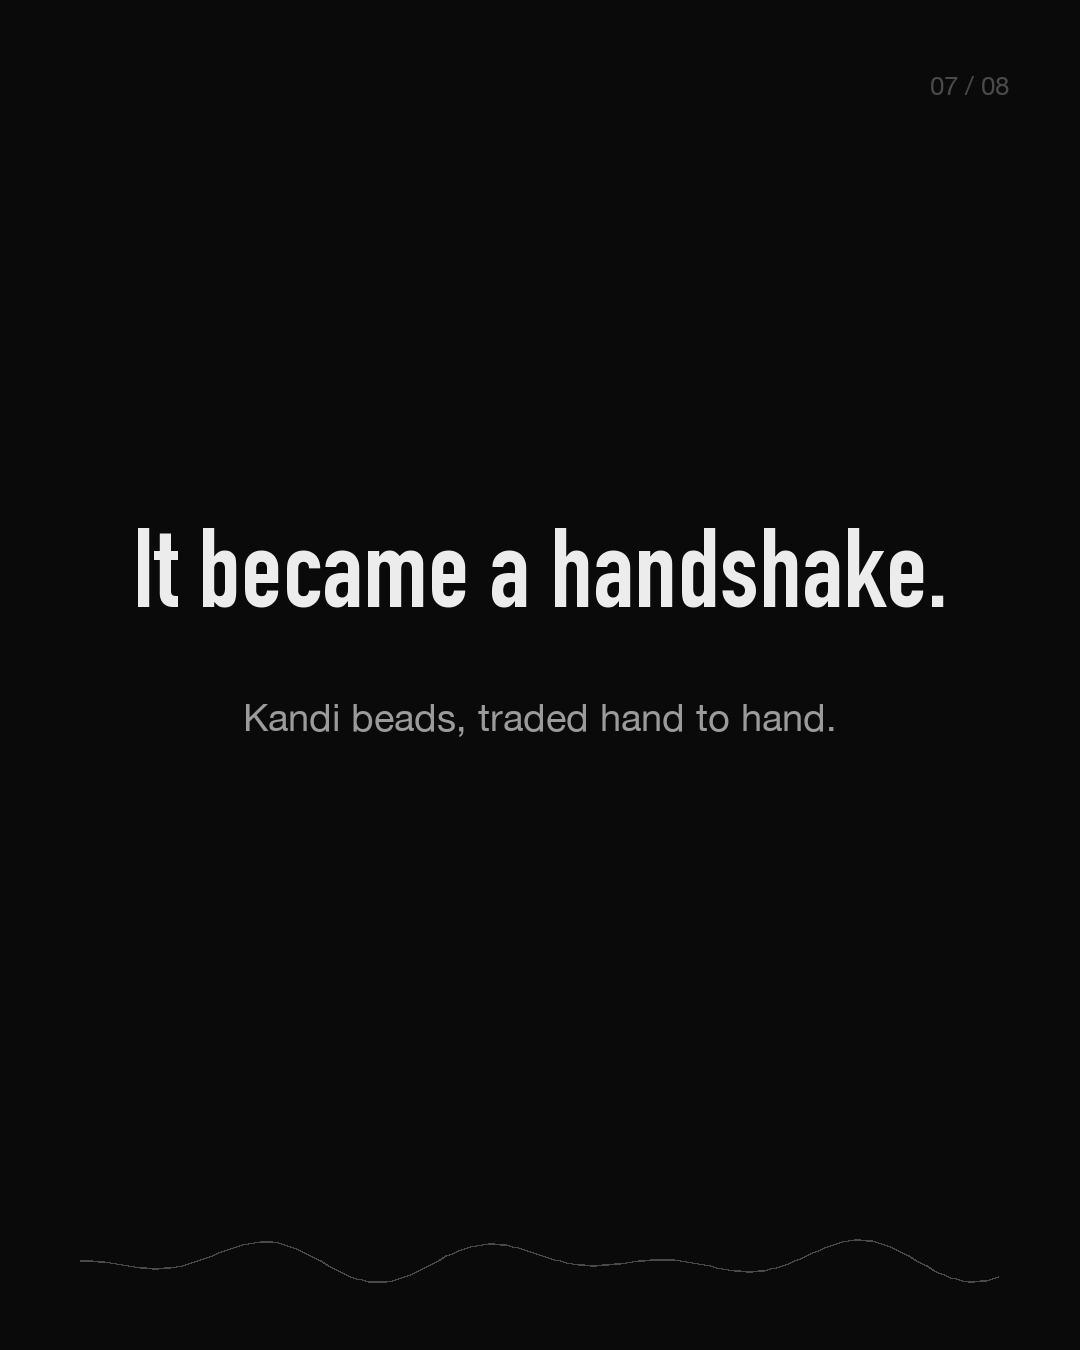
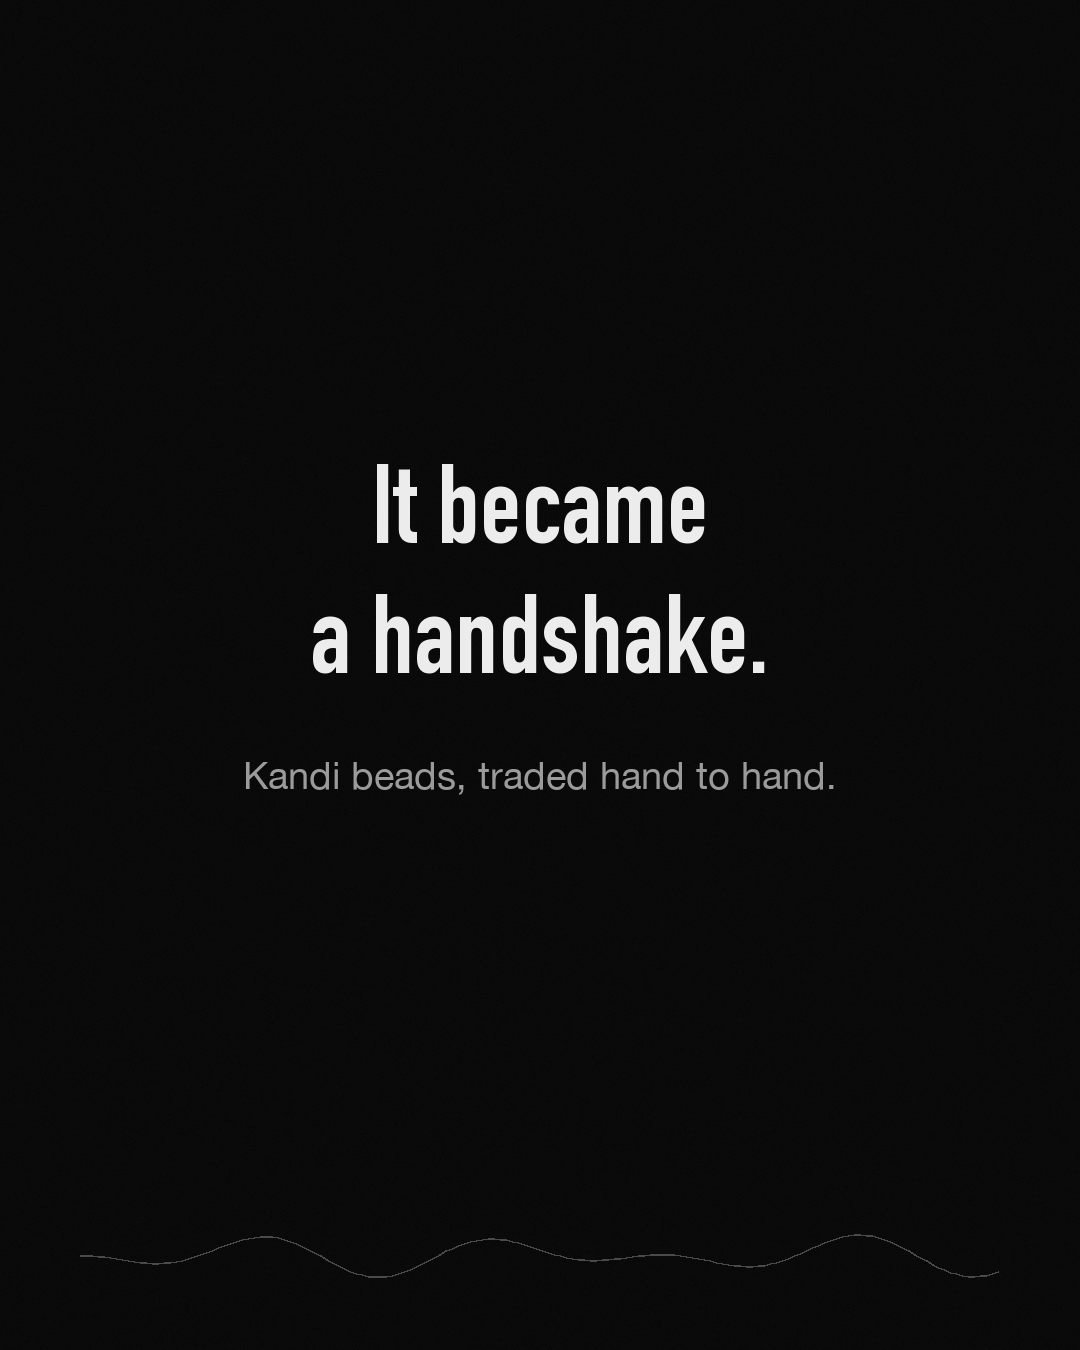
render: ページ番号削除・意味改行(配列)対応・表紙別背景(cover-bg)・地グレイン追加

Changed region(s): [[0.1222, 0.3422, 0.8861, 0.4978], [0.2139, 0.5289, 0.7639, 0.5911]]

diff --git a/tools/carousel-render/render.py b/tools/carousel-render/render.py
@@ -4,24 +4,27 @@ Carousel renderer — slides.json + 背景 → スライドPNG
 テキストを組版してブランド準拠のカルーセル画像を吐く。AI画像生成は不要。
 
 Usage:
-  python render.py slides.json --out ./out [--bg /path/to/background.jpg]
+  python render.py slides.json --out ./out [--cover-bg cover.jpg]
 
 slides.json schema:
 {
   "account": "plur" | "flava",
-  "background": {"color":"#0A0A0A"} | {"image":"bg.jpg"},
+  "background": {"color":"#0A0A0A"},
   "slides": [
     {"type":"cover", "main":"PLUR", "sub":"..."},
-    {"type":"body",  "text":"...", "sub":"..."},
-    {"type":"quote", "quote":"...", "note":"..."},
+    {"type":"body",  "text":["line1","line2"], "sub":"..."},
+    {"type":"quote", "quote":["line1","line2"], "note":"..."},
     {"type":"cta",   "text":"...", "strobe":"...", "cta":"Save this."}
   ]
 }
-背景は --bg で全スライド一括指定、または各slideに "bg":"path" で個別指定可。
+
+改行ルール：text/quote等は **配列で1行ずつ** 指定する（意味・カンマ・ハイフンで割る）。
+文字列に "\\n" を入れてもよい。1行だけ長すぎる場合のみ自動折返しでフォールバック。
+表紙(cover)の背景：--cover-bg で渡した画像を slide 1 だけに敷く（2枚目以降はテーマ地）。
 """
-import json, sys, argparse, math
+import json, sys, argparse, math, random
 from pathlib import Path
-from PIL import Image, ImageDraw, ImageFont, ImageEnhance
+from PIL import Image, ImageDraw, ImageFont, ImageEnhance, ImageChops
 
 W, H = 1080, 1350  # Instagram 4:5
 
@@ -31,14 +34,14 @@ THEMES = {
         "sub": "#9B9B9B", "rule": "#4A4A4A",
         "font_head": "/System/Library/Fonts/Supplemental/DIN Condensed Bold.ttf",
         "font_body": "/System/Library/Fonts/HelveticaNeue.ttc",
-        "motif": True,
+        "motif": True, "grain": 14,
     },
     "flava": {
         "bg": "#F4EFE6", "main": "#33403A", "strobe": "#869177",
         "sub": "#A99BC0", "rule": "#C9A86A",
         "font_head": "/System/Library/Fonts/Hiragino Sans GB.ttc",
         "font_body": "/System/Library/Fonts/Hiragino Sans GB.ttc",
-        "motif": False,
+        "motif": False, "grain": 6,
     },
 }
 
@@ -48,7 +51,7 @@ def F(path, size):
     except Exception:
         return ImageFont.load_default()
 
-def wrap(draw, text, font, max_w):
+def greedy_wrap(draw, text, font, max_w):
     words, lines, cur = text.split(" "), [], ""
     for w in words:
         t = (cur + " " + w).strip()
@@ -60,78 +63,98 @@ def wrap(draw, text, font, max_w):
     if cur: lines.append(cur)
     return lines
 
-def draw_block(draw, lines, font, fill, cy, line_gap=1.2, align="center"):
+def as_lines(value, draw, font, max_w):
+    """配列→そのまま / "\\n"入り文字列→分割 / 普通の文字列→必要時のみ折返し"""
+    if value is None:
+        return []
+    if isinstance(value, list):
+        raw = value
+    elif "\n" in value:
+        raw = value.split("\n")
+    else:
+        return greedy_wrap(draw, value, font, max_w)
+    out = []
+    for ln in raw:
+        if draw.textlength(ln, font=font) > max_w:
+            out.extend(greedy_wrap(draw, ln, font, max_w))  # 長すぎる行だけ救済
+        else:
+            out.append(ln)
+    return out
+
+def draw_block(draw, lines, font, fill, cy, line_gap=1.18):
     asc, desc = font.getmetrics()
     lh = int((asc + desc) * line_gap)
     total = lh * len(lines)
     y = cy - total // 2
     for ln in lines:
         tw = draw.textlength(ln, font=font)
-        x = (W - tw) // 2 if align == "center" else 90
-        draw.text((x, y), ln, font=font, fill=fill)
+        draw.text(((W - tw) // 2, y), ln, font=font, fill=fill)
         y += lh
     return y
 
-def waveform(draw, color, y=H-90):
+def waveform(draw, color, y=H-95):
     pts = []
     for x in range(80, W-80, 6):
         amp = 22 * math.sin((x-80)/38.0) * math.sin((x-80)/180.0)
         pts.append((x, y + amp))
     draw.line(pts, fill=color, width=2)
 
-def make_bg(theme, slide, global_bg):
-    src = slide.get("bg") or global_bg
-    if src and Path(src).exists():
-        img = Image.open(src).convert("RGB")
-        # cover-crop to 1080x1350
-        r = max(W/img.width, H/img.height)
-        img = img.resize((int(img.width*r), int(img.height*r)))
-        x = (img.width-W)//2; y=(img.height-H)//2
-        img = img.crop((x, y, x+W, y+H))
-        # darken for legibility (PLUR strong, FLAVA light)
-        f = 0.45 if theme["bg"] == "#0A0A0A" else 0.85
-        img = ImageEnhance.Brightness(img).enhance(f)
+def add_grain(img, sigma):
+    if sigma <= 0:
         return img
-    return Image.new("RGB", (W, H), theme["bg"])
+    noise = Image.effect_noise((W, H), sigma).convert("L")
+    rgb = Image.merge("RGB", (noise, noise, noise))
+    return ImageChops.overlay(img, rgb)
 
-def render_slide(slide, theme, idx, total, global_bg):
-    img = make_bg(theme, slide, global_bg)
+def make_bg(theme, src, is_cover):
+    if src and Path(src).exists():
+        im = Image.open(src).convert("RGB")
+        r = max(W/im.width, H/im.height)
+        im = im.resize((int(im.width*r), int(im.height*r)))
+        x = (im.width-W)//2; y = (im.height-H)//2
+        im = im.crop((x, y, x+W, y+H))
+        f = 0.45 if theme["bg"] == "#0A0A0A" else 0.82  # 文字可読性のため暗く/淡く
+        return ImageEnhance.Brightness(im).enhance(f)
+    base = Image.new("RGB", (W, H), theme["bg"])
+    return add_grain(base, theme["grain"])  # フラット地にグレインを乗せて単調回避
+
+def render_slide(slide, theme, cover_bg):
+    typ = slide.get("type", "body")
+    per_bg = slide.get("bg")
+    src = cover_bg if (typ == "cover" and cover_bg) else per_bg
+    img = make_bg(theme, src, typ == "cover")
     d = ImageDraw.Draw(img)
     pad = 110
-    typ = slide.get("type", "body")
+    mw = W - 2*pad
 
     if typ == "cover":
         big = F(theme["font_head"], 230)
         sub = F(theme["font_body"], 40)
-        draw_block(d, wrap(d, slide.get("main",""), big, W-2*pad), big, theme["strobe"], int(H*0.42))
+        draw_block(d, as_lines(slide.get("main"), d, big, mw), big, theme["strobe"], int(H*0.42))
         if slide.get("sub"):
-            draw_block(d, wrap(d, slide["sub"], sub, W-2*pad), sub, theme["sub"], int(H*0.60))
+            draw_block(d, as_lines(slide["sub"], d, sub, mw), sub, theme["sub"], int(H*0.60))
     elif typ == "quote":
         q = F(theme["font_head"], 92)
         note = F(theme["font_body"], 34)
-        y = draw_block(d, wrap(d, slide.get("quote",""), q, W-2*pad), q, theme["strobe"], int(H*0.44))
+        y = draw_block(d, as_lines(slide.get("quote"), d, q, mw), q, theme["strobe"], int(H*0.44))
         if slide.get("note"):
-            draw_block(d, wrap(d, slide["note"], note, W-2*pad), note, theme["sub"], y+70)
+            draw_block(d, as_lines(slide["note"], d, note, mw), note, theme["sub"], y+70)
     elif typ == "cta":
         big = F(theme["font_head"], 120)
-        st = F(theme["font_head"], 120)
         cta = F(theme["font_body"], 34)
-        y = draw_block(d, wrap(d, slide.get("text",""), big, W-2*pad), big, theme["main"], int(H*0.38))
+        y = draw_block(d, as_lines(slide.get("text"), d, big, mw), big, theme["main"], int(H*0.38))
         if slide.get("strobe"):
-            draw_block(d, wrap(d, slide["strobe"], st, W-2*pad), st, theme["strobe"], y+40)
+            y = draw_block(d, as_lines(slide["strobe"], d, big, mw), big, theme["strobe"], y+40)
         if slide.get("cta"):
-            draw_block(d, wrap(d, slide["cta"], cta, W-2*pad), cta, theme["sub"], int(H*0.80))
+            draw_block(d, as_lines(slide["cta"], d, cta, mw), cta, theme["sub"], int(H*0.80))
     else:  # body
         head = F(theme["font_head"], 110) if theme["motif"] else F(theme["font_head"], 80)
         sub = F(theme["font_body"], 38)
-        y = draw_block(d, wrap(d, slide.get("text",""), head, W-2*pad), head, theme["main"], int(H*0.44))
+        y = draw_block(d, as_lines(slide.get("text"), d, head, mw), head, theme["main"], int(H*0.44))
         if slide.get("sub"):
-            draw_block(d, wrap(d, slide["sub"], sub, W-2*pad), sub, theme["sub"], y+60)
+            draw_block(d, as_lines(slide["sub"], d, sub, mw), sub, theme["sub"], y+55)
 
-    # page counter
-    cnt = F(theme["font_body"], 26)
-    d.text((W-150, 70), f"{idx:02d} / {total:02d}", font=cnt, fill=theme["rule"])
-    # signature motif (waveform) for PLUR
+    # signature motif（PLURのみ波形）。ページ番号は表示しない。
     if theme["motif"]:
         waveform(d, theme["rule"])
     return img
@@ -140,20 +163,19 @@ def main():
     ap = argparse.ArgumentParser()
     ap.add_argument("slides_json")
     ap.add_argument("--out", default="./out")
-    ap.add_argument("--bg", default=None, help="background image for all slides")
+    ap.add_argument("--cover-bg", default=None, help="表紙(slide1)だけに敷く画像")
     a = ap.parse_args()
 
     spec = json.loads(Path(a.slides_json).read_text())
-    theme = THEMES[spec.get("account", "plur")]
-    if "background" in spec:
-        if spec["background"].get("color"):
-            theme = {**theme, "bg": spec["background"]["color"]}
-    global_bg = a.bg or (spec.get("background", {}).get("image"))
+    theme = dict(THEMES[spec.get("account", "plur")])
+    bgc = spec.get("background", {}).get("color")
+    if bgc:
+        theme["bg"] = bgc
 
     out = Path(a.out); out.mkdir(parents=True, exist_ok=True)
     slides = spec["slides"]
     for i, s in enumerate(slides, 1):
-        img = render_slide(s, theme, i, len(slides), global_bg)
+        img = render_slide(s, theme, a.cover_bg)
         p = out / f"slide_{i:02d}.png"
         img.save(p, "PNG")
         print("saved", p)
